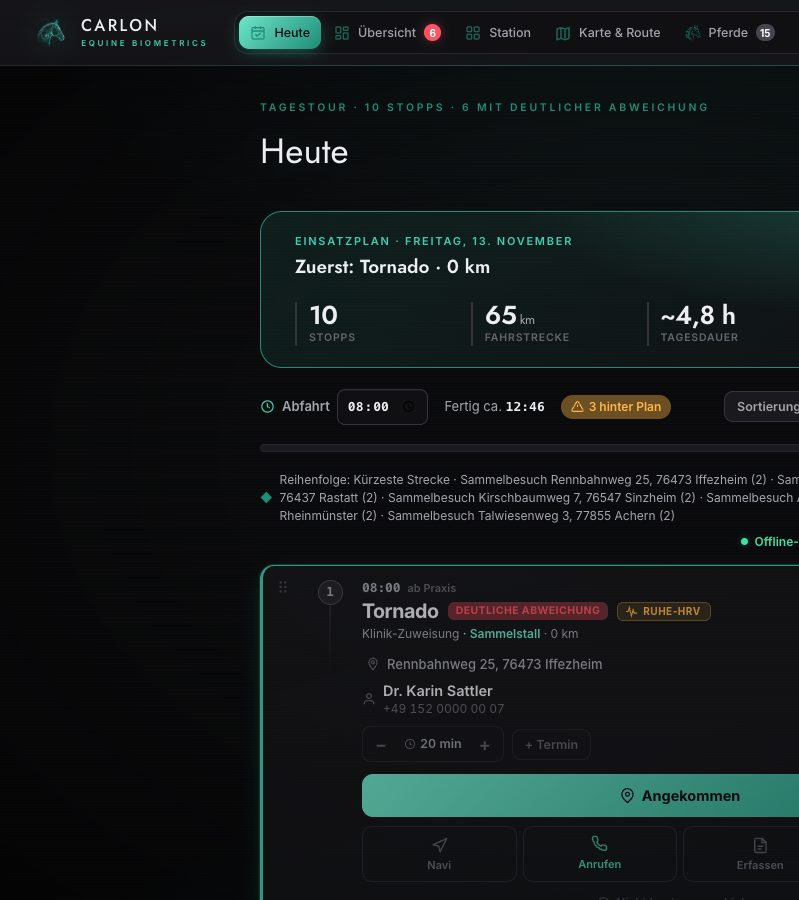
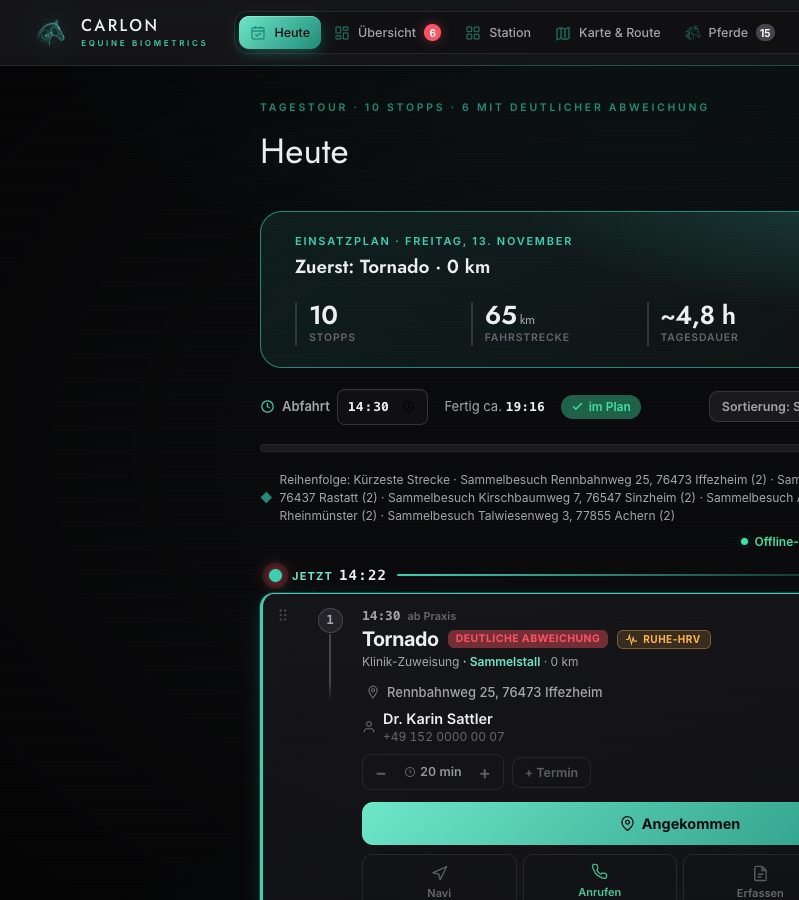
Equine-Web Conversion C1 (86/100 Gemini): Dialog-Fuß immer sichtbar, gewählte Tarifspalte, Demo-Tag ab jetzt
- Dialoge als Spalte: Kopf und Fuß fest, nur der Inhalt scrollt – Kaufdialog und
  Messwertbericht zeigen ihre Knöpfe auch auf Laptop-Höhe (vorher abgeschnitten)
- Kaufdialog: Kurzzeile unter der Bestätigung (netto · Rechnung mit USt. von
  Stripe · sofort freigeschaltet — kein Schlüssel, keine E-Mail);
  ?kasse=praxis|klinik hebt die auf der Seite gewählte Spalte hervor
- Demo: Tagesbeginn = jetzt (nächste Viertelstunde), kein „10 hinter Plan" am Morgen
- Visite: Tarifknöpfe mit Spalte, scroll-margin für Sprunganker,
  Stationswand-Bild in voller Breite

Claude-Session: https://claude.ai/code/session_01JRKnvqsbnHWuTk4sppH3jz

diff --git a/carlon-equine/app/index.html b/carlon-equine/app/index.html
@@ -34,7 +34,7 @@
 
 .kauf-grid{display:grid;grid-template-columns:1fr 1fr;gap:16px;align-items:start}
 @media(max-width:760px){.kauf-grid{grid-template-columns:1fr}}
-.kauf-grid .tier-opt{padding:12px 14px}.kauf-b2b{display:flex;gap:10px;align-items:flex-start;margin:0 0 14px;padding:10px 12px;border:1px solid rgba(62,207,178,.35);border-radius:10px;font-size:13px;color:var(--text-primary);cursor:pointer}.kauf-b2b input{margin-top:3px;accent-color:var(--cyan)}.kauf-b2b a{color:var(--cyan)}.kauf-link[aria-disabled=true]{opacity:.45;filter:grayscale(.4)}.kauf-grid .tier-table{gap:8px}.kauf-grid .tier-opt ul{line-height:1.6}
+.kauf-grid .tier-opt{padding:12px 14px}.kauf-spalte.gewaehlt>.tier-opt.feat:first-child{border-color:var(--cyan);box-shadow:0 0 0 2px rgba(62,207,178,.28)}.kauf-kurz{font-size:12px;color:var(--text-dim);margin:-6px 0 14px 2px}.kauf-b2b{display:flex;gap:10px;align-items:flex-start;margin:0 0 14px;padding:10px 12px;border:1px solid rgba(62,207,178,.35);border-radius:10px;font-size:13px;color:var(--text-primary);cursor:pointer}.kauf-b2b input{margin-top:3px;accent-color:var(--cyan)}.kauf-b2b a{color:var(--cyan)}.kauf-link[aria-disabled=true]{opacity:.45;filter:grayscale(.4)}.kauf-grid .tier-table{gap:8px}.kauf-grid .tier-opt ul{line-height:1.6}
 
 .vh-cta.ghost.hell,.verdict-hero .vh-cta.ghost.hell{color:#E8F8FF;border:1px solid rgba(62,207,178,.45);background:rgba(62,207,178,.08)}
 .pc-guete.lang{margin:10px 0 0;font-size:12.5px;color:var(--text-secondary)}
@@ -1055,14 +1055,15 @@ h2 svg.ic{width:20px;height:20px}
 .modal-bg{position:fixed;inset:0;z-index:100;background:rgba(0,2,6,.72);backdrop-filter:blur(8px);
   display:flex;align-items:center;justify-content:center;padding:var(--s4);animation:fade .25s ease}
 .modal{background:linear-gradient(160deg,rgba(26,26,30,.82),rgba(22,22,26,.76));border:1px solid var(--border-strong);
-  border-radius:var(--r-l);width:100%;max-width:560px;max-height:88vh;overflow-y:auto;
+  border-radius:var(--r-l);width:100%;max-width:560px;max-height:92vh;overflow:hidden;display:flex;flex-direction:column;
   box-shadow:0 40px 90px -30px rgba(0,0,0,.85),var(--lift);backdrop-filter:blur(16px) saturate(1.1);animation:pop .3s cubic-bezier(.2,.9,.3,1.2)}
 .modal.wide{max-width:720px}
 @keyframes pop{from{opacity:0;transform:scale(.94) translateY(12px)}to{opacity:1;transform:none}}
 .modal-head{padding:var(--s4) var(--s5);border-bottom:1px solid var(--border-faint);display:flex;align-items:center;justify-content:flex-start;gap:var(--s3)}
 .modal-head .closex{order:-1}
 .modal-head h3{font-family:var(--font-brand);font-size:20px;font-weight:600}
-.modal-body{padding:var(--s5)}
+.modal-body{padding:var(--s5);overflow-y:auto;flex:1 1 auto;min-height:0}
+.modal-head,.modal-foot{flex:0 0 auto}
 .modal-foot{padding:var(--s4) var(--s5);border-top:1px solid var(--border-faint);display:flex;gap:var(--s2);justify-content:flex-end}
 .field{margin-bottom:var(--s4)}
 .field label{display:block;font-size:12px;font-weight:600;color:var(--text-secondary);margin-bottom:7px;letter-spacing:.02em}
@@ -7895,6 +7896,7 @@ const UI={
   modal(html,{wide,sheet}={}){this.closeModal();const bg=el('div','modal-bg');bg.id='modalBg';
     bg.innerHTML=`<div class="modal ${wide?'wide':''} ${sheet?'sheet':''}">${html}</div>`;
     bg.addEventListener('click',e=>{if(e.target===bg)this.closeModal();});
+    { const m=bg.firstElementChild; if(m&&!m.querySelector(':scope > .modal-body')) m.style.overflowY='auto'; }   // Dialoge ohne .modal-body scrollen wie bisher als Ganzes
     document.body.appendChild(bg);},
   closeModal(){const m=$('#modalBg');if(m)m.remove();},
   toggleFieldMode(){
@@ -8105,6 +8107,7 @@ const UI={
       ${feature?`<div class="demo-ribbon" style="margin-bottom:14px"><svg viewBox="0 0 24 24" fill="none" stroke="currentColor" stroke-width="2"><rect x="3" y="11" width="18" height="11" rx="2"/><path d="M7 11V7a5 5 0 0110 0v4"/></svg><div><b>${esc(feature)}</b> ist Teil der Vollversion.</div></div>`:''}
       
       <label class="kauf-b2b"><input type="checkbox" id="kaufB2B" onchange="document.querySelectorAll('.kauf-link').forEach(l=>l.setAttribute('aria-disabled',this.checked?'false':'true'))"> <span>Ich bestelle als <b>Unternehmer (§ 14 BGB)</b> für meine Praxis oder Klinik und akzeptiere die <a href="/agb.html" target="_blank" rel="noopener">AGB</a>.</span></label>
+      <p class="kauf-kurz">Preise netto · Rechnung mit ausgewiesener USt. von Stripe · nach der Zahlung sofort freigeschaltet — kein Schlüssel, keine E-Mail.</p>
       <div class="kauf-grid"><div class="kauf-spalte">
       <div class="tier-opt feat" style="align-items:flex-start">
         <div style="flex:1"><h4>CARLON Equine — für Pferdepraxen</h4>
@@ -9611,11 +9614,16 @@ const License={
      (kein Link / falscher Betrag / Testlink im Echtbetrieb). */
   oeffneKasseAusLink(){
     const u = new URL(location.href);
-    if (u.searchParams.get('kasse') !== '1') return;
+    const k = u.searchParams.get('kasse');
+    if (!['1','praxis','klinik'].includes(k)) return;
     u.searchParams.delete('kasse');
     history.replaceState(null, '', u.pathname + (u.search || '') + u.hash);
     // Zahlt die Praxis schon, waere ein Kaufdialog verwirrend — dann die Lizenz zeigen.
-    setTimeout(() => { try { this.isPaid() ? UI.licenseInfo() : UI.upgrade(); } catch(e){} }, 350);
+    setTimeout(() => { try { if (this.isPaid()) return UI.licenseInfo(); UI.upgrade();
+      /* Gewählte Spalte von der Verkaufsseite hervorheben (Conversion C1) */
+      const sp = document.querySelectorAll('.kauf-spalte'); const i = k==='praxis' ? 0 : k==='klinik' ? 1 : -1;
+      if (i>=0 && sp[i]) { sp[i].classList.add('gewaehlt'); if (i===1 && innerWidth<=760) sp[i].scrollIntoView({block:'start'}); }
+    } catch(e){} }, 350);
   },
 
   /* WEITERES GERÄT (13.11.2026): Der Kunde sieht nie einen Schlüssel – also
@@ -10088,6 +10096,8 @@ const Seed={
     }
     const cs=State.consults||[]; if(cs.length){ const cmax=Math.max(...cs.map(c=>+new Date(c.date))); const cv=Date.now()-36e5-cmax;
       for(const c of cs){ c.date=new Date(+new Date(c.date)+cv).toISOString(); await DB.put('consults',c); } }
+    // Demo-Tag beginnt JETZT (auf die nächste Viertelstunde), sonst steht morgens schon „10 hinter Plan“ (Conversion C1).
+    { const d=new Date(); const m=d.getHours()*60+d.getMinutes(); if(m>=6*60&&m<=19*60){ State.settings.dayStart=Math.ceil(m/15)*15; await State.saveSettings(); } }
     await State.load();
   },
   // Realistischer Tagesmix: neben den Notfällen ein paar STABILE Routine-Kontrollen in den Tag legen.
@@ -11454,6 +11464,7 @@ const Sprache={
     'Messwertbericht erstellt':'Measurement report created',
     'Weiter zur Kasse →':'Continue to checkout →', 'zum Einstieg':'to start', 'zwei Monate gespart':'two months saved',
     'Ohne Gurt umsehen (Beispielpferde)':'Look around without a belt (example horses)',
+    'Preise netto · Rechnung mit ausgewiesener USt. von Stripe · nach der Zahlung sofort freigeschaltet — kein Schlüssel, keine E-Mail.':'Prices net · invoice with VAT shown, issued by Stripe · unlocked right after payment — no key, no email.',
     'Als Leistung erfassen':'Record as a service',
     'RMSSD':'RMSSD',
     'SDNN':'SDNN',

diff --git a/carlon-equine-visite/index.html b/carlon-equine-visite/index.html
@@ -464,6 +464,7 @@ h2{font-family:var(--font-brand);font-weight:350;font-size:clamp(28px,3.6vw,var(
 .gruender p{font-size:15px;line-height:1.65;color:var(--text-secondary);max-width:70ch}.gruender b{color:var(--text-primary);font-weight:500}
 .gruender .g-kontakt{margin-top:10px;font-size:14px}.gruender .g-kontakt a{color:var(--cyan);white-space:nowrap}
 .tarif-knopf{display:block;text-align:center;margin-top:18px}.tarif-neben{display:block;text-align:center;margin-top:10px;font-size:13px;color:var(--text-secondary)}
+section[id]{scroll-margin-top:76px}
 .b2b-hinweis{max-width:920px;margin:var(--sp-34,34px) auto 0;font-family:var(--font-mono);font-size:11px;letter-spacing:.14em;text-transform:uppercase;color:var(--cyan);text-align:center}
 .t-stufe{font-family:var(--font-mono);font-size:var(--t-mark);letter-spacing:0.2em;
   text-transform:uppercase;color:var(--cyan);text-align:center;margin-bottom:var(--sp-13)}
@@ -1515,7 +1516,7 @@ h1,h2{text-wrap:balance}
         <li>Export als JSON, CSV, Kubios und FHIR&nbsp;R5</li>
         <li>Monatsabo monatlich kündbar, Jahresabo zum Ende der Laufzeit</li>
       </ul>
-      <a class="cta-primary tarif-knopf" href="/carlon-equine/app/?kasse=1">Praxis-Abo wählen · 149&nbsp;€ / Monat →</a>
+      <a class="cta-primary tarif-knopf" href="/carlon-equine/app/?kasse=praxis">Praxis-Abo wählen · 149&nbsp;€ / Monat →</a>
       <a class="tarif-neben" href="#anmeldung">Oder erst eine persönliche Einführung ↓</a>
     </div>
     <div class="tarif tarif-klinik">
@@ -1530,7 +1531,7 @@ h1,h2{text-wrap:balance}
         <li>Mehrere Plätze in einer Lizenz</li>
         <li>Feste Methodenversion je Auswertung — für Archiv und Studien</li>
       </ul>
-      <a class="cta-primary tarif-knopf" href="/carlon-equine/app/?kasse=1">Klinik-Abo wählen · 349&nbsp;€ / Monat →</a>
+      <a class="cta-primary tarif-knopf" href="/carlon-equine/app/?kasse=klinik">Klinik-Abo wählen · 349&nbsp;€ / Monat →</a>
       <a class="tarif-neben" href="#anmeldung">Klinik-Ordner vorab im Gespräch klären ↓</a>
     </div>
     </div>

diff --git a/carlon-equine-visite/en/index.html b/carlon-equine-visite/en/index.html
@@ -468,6 +468,7 @@ h2{font-family:var(--font-brand);font-weight:350;font-size:clamp(28px,3.6vw,var(
 .gruender p{font-size:15px;line-height:1.65;color:var(--text-secondary);max-width:70ch}.gruender b{color:var(--text-primary);font-weight:500}
 .gruender .g-kontakt{margin-top:10px;font-size:14px}.gruender .g-kontakt a{color:var(--cyan);white-space:nowrap}
 .tarif-knopf{display:block;text-align:center;margin-top:18px}.tarif-neben{display:block;text-align:center;margin-top:10px;font-size:13px;color:var(--text-secondary)}
+section[id]{scroll-margin-top:76px}
 .b2b-hinweis{max-width:920px;margin:var(--sp-34,34px) auto 0;font-family:var(--font-mono);font-size:11px;letter-spacing:.14em;text-transform:uppercase;color:var(--cyan);text-align:center}
 .t-stufe{font-family:var(--font-mono);font-size:var(--t-mark);letter-spacing:0.2em;
   text-transform:uppercase;color:var(--cyan);text-align:center;margin-bottom:var(--sp-13)}
@@ -1518,7 +1519,7 @@ h1,h2{text-wrap:balance}
         <li>Export as JSON, CSV, Kubios and FHIR&nbsp;R5</li>
         <li>Monthly plan cancellable monthly, annual plan at the end of its term</li>
       </ul>
-      <a class="cta-primary tarif-knopf" href="/carlon-equine/app/?kasse=1">Choose practice plan · €149 / month →</a>
+      <a class="cta-primary tarif-knopf" href="/carlon-equine/app/?kasse=praxis">Choose practice plan · €149 / month →</a>
       <a class="tarif-neben" href="#anmeldung">Or a personal introduction first ↓</a>
     </div>
     <div class="tarif tarif-klinik">
@@ -1533,7 +1534,7 @@ h1,h2{text-wrap:balance}
         <li>Several seats in one licence</li>
         <li>A fixed method version per analysis — for archives and studies</li>
       </ul>
-      <a class="cta-primary tarif-knopf" href="/carlon-equine/app/?kasse=1">Choose clinic plan · €349 / month →</a>
+      <a class="cta-primary tarif-knopf" href="/carlon-equine/app/?kasse=klinik">Choose clinic plan · €349 / month →</a>
       <a class="tarif-neben" href="#anmeldung">Discuss the clinic folder first ↓</a>
     </div>
     </div>

diff --git a/carlon-equine/app/sw.js b/carlon-equine/app/sw.js
@@ -2,7 +2,7 @@
    App-Shell wird precached; Fonts & Leaflet lokal gebündelt (assets/) — keine externen CDNs,
    sodass die App nach dem ersten Online-Start vollständig offline läuft.
    Gesundheitsdaten liegen in IndexedDB — der SW cached nur Programm-Assets. */
-const VERSION = 'carlon-clinic-20261113-c1d';
+const VERSION = 'carlon-clinic-20261113-c2';
 /* ACHTUNG: JEDE Datei in CORE wird ausgeliefert, bis VERSION sich aendert.
    Zweimal in dieser Nacht passiert — einmal beim Livegang-Schalter, einmal bei
    krypto.js: Datei geaendert, Version vergessen, und der Browser lieferte
